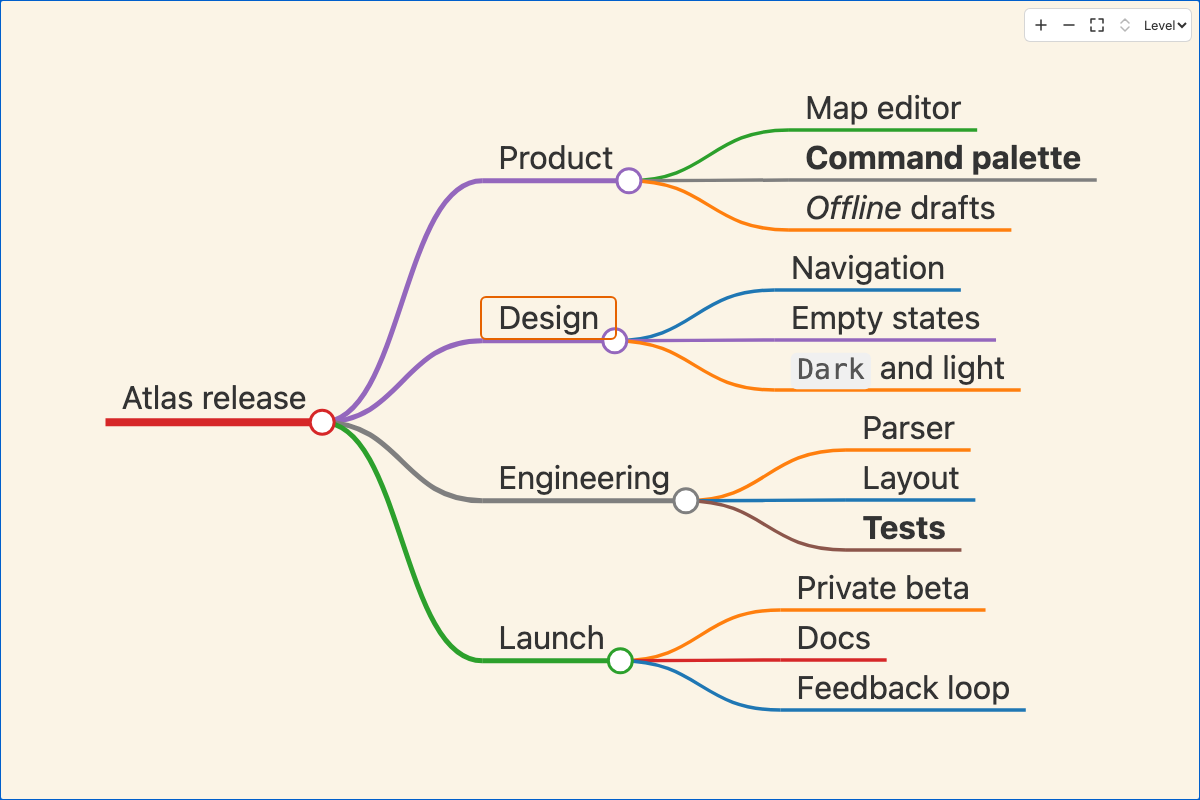
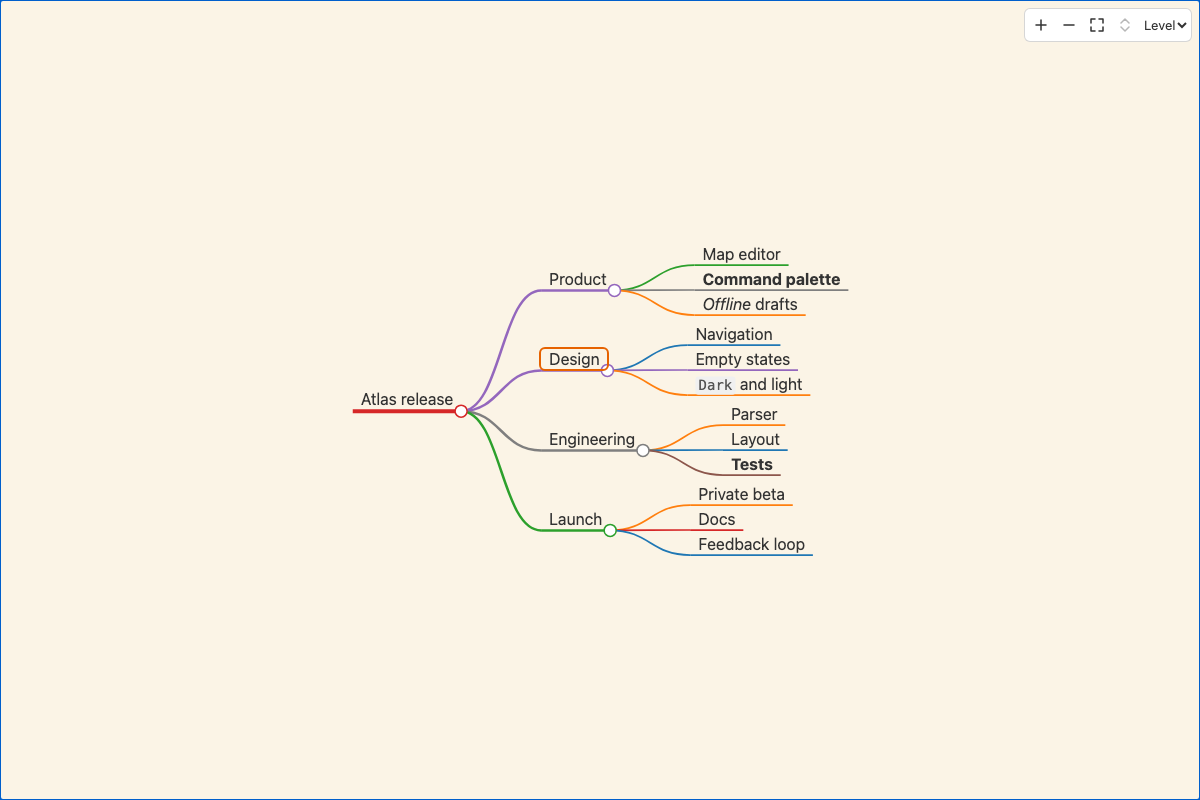
fix: open a map at its actual size
Markmap fits a new view up to 200%, so a small map opened with every label around 32 px while XMind opens at 100%. Cap the initial fit at 100%; a larger map still fits the viewport, and markmap.fitMaxScale in frontmatter can raise the cap.

diff --git a/editor/main.js b/editor/main.js
@@ -373,4 +373,4 @@ https://github.com/highlightjs/highlight.js/issues/2277`),i=e,r=t),n===void 0&&(
 .markmap-popover .hljs-title, .markmap-popover .hljs-section { color: var(--mm-syntax-title, #8250df); }
 .markmap-popover .hljs-attr, .markmap-popover .hljs-attribute, .markmap-popover .hljs-property,
 .markmap-popover .hljs-name, .markmap-popover .hljs-selector-class { color: var(--mm-syntax-attr, #116329); }
-`;function LN(e){if(e.getElementById(FN))return;let t=e.createElement(`style`);t.id=FN,t.textContent=IN,e.head.append(t)}var RN=6,zN=8,BN=class{el;constructor(e,t,n){LN(e),this.el=e.createElement(`div`),this.el.className=`markmap-popover`,this.el.setAttribute(`role`,`dialog`),this.el.tabIndex=-1;for(let[e,t]of Object.entries(n))this.el.style.setProperty(`--${e}`,t);this.el.innerHTML=t,e.body.append(this.el)}position(e){let t=this.el.ownerDocument.defaultView,n=t?.innerWidth??0,r=t?.innerHeight??0,{width:i,height:a}=this.el.getBoundingClientRect(),o=e.y+e.height+RN,s=e.y-RN-a,c=o+a<=r-zN||s<zN?o:s,l=Math.min(Math.max(zN,e.x),Math.max(zN,n-i-zN));this.el.style.top=`${Math.round(c)}px`,this.el.style.left=`${Math.round(l)}px`}contains(e){return!!e&&this.el.contains(e)}destroy(){this.el.remove()}},VN=`http://www.w3.org/2000/svg`,HN=class{element;nativeLinks=!0;themeSelector;root;style;items=new Map;constructor(e,{themeSelector:t}={}){this.element=e,this.themeSelector=t;let n=e.ownerDocument;this.style=n.createElementNS(VN,`style`),this.root=n.createElementNS(VN,`g`),e.append(this.style,this.root)}setCSS(e){this.style.textContent=e}setTransform({k:e,x:t,y:n}){this.root.setAttribute(`transform`,`translate(${t},${n}) scale(${e})`)}get(e){return this.items.get(e)?.el}draw(e){let t=new Set,n=null;e.forEach((e,r)=>{if(e.backends&&!e.backends.includes(`svg`))return;let i=e.kind===`group`,a=i&&e.key?e.key:`#${r}`;t.add(a);let o=this.items.get(a);o||(o={el:this.root.ownerDocument.createElementNS(VN,`g`),markup:``},this.items.set(a,o));let{el:s}=o;UN(s,`transform`,i&&e.transform?`matrix(${e.transform.join(` `)})`:null),UN(s,`opacity`,i&&e.opacity!=null?String(e.opacity):null),UN(s,`data-node-id`,i?e.nodeId??null:null),UN(s,`data-key`,a);let c=yb(i?e.clip?[{...e,transform:void 0,opacity:void 0}]:e.children:[e],{interactive:!0});c!==o.markup&&(GN(s,o.markup,c)||(s.innerHTML=c),o.markup=c);let l=n?n.nextSibling:this.root.firstChild;l!==s&&this.root.insertBefore(s,l),n=s});for(let[e,n]of this.items)t.has(e)||(n.el.remove(),this.items.delete(e))}destroy(){this.style.remove(),this.root.remove(),this.items.clear()}};function UN(e,t,n){n==null?e.removeAttribute(t):e.getAttribute(t)!==n&&e.setAttribute(t,n)}var WN=/^<path d="([^"]*)"([^>]*)\/>$/;function GN(e,t,n){let r=WN.exec(t),i=WN.exec(n),a=e.firstElementChild;return!r||!i||r[2]!==i[2]||i[1].includes(`&`)||!a||a!==e.lastElementChild?!1:(a.setAttribute(`d`,i[1]),!0)}var KN={now:()=>performance.now(),request:e=>requestAnimationFrame(e),cancel:e=>cancelAnimationFrame(e)},qN=class{scheduler;handle;constructor(e=KN){this.scheduler=e}get running(){return this.handle!=null}start(e,t){if(this.stop(),e<=0){t(1);return}let n=this.scheduler.now(),r=()=>{let i=Math.min(1,(this.scheduler.now()-n)/e);this.handle=i<1?this.scheduler.request(r):void 0,t(i)};this.handle=this.scheduler.request(r)}stop(){this.handle!=null&&(this.scheduler.cancel(this.handle),this.handle=void 0)}},JN={zoom:!0,pan:!0,fitPadding:20,fitMaxScale:2,minScale:.1,maxScale:8,duration:500};function YN(e,t,n){let{options:r,json:i,warnings:a}=Hy(e,t,n);for(let e of[`zoom`,`pan`,`fitPadding`,`fitMaxScale`,`minScale`,`maxScale`,`foldLevel`,`duration`,`colorScheme`])i[e]!=null&&(r[e]=i[e]);return{options:r,warnings:a}}var XN=1.25;function ZN(e,t,n=0){t(e,n);for(let r of e.children)ZN(r,t,n+1)}var QN=10,$N=()=>`markmap-${Math.random().toString(36).slice(2,10)}`;function eP(e,t){if(e.id===t)return[e];for(let n of e.children){let r=eP(n,t);if(r)return[e,...r]}}var tP=e=>typeof e.draw==`function`,nP=class e{backend;scopeClass=$N();viewOptions=JN;zoomBehavior=Gw();gestures;selection;measurer;root;folded=new Set;known=new Set;current;pendingFit;popover;popoverRequest=0;frame;primitives=[];hits;stateTween=new qN;zoomTween=new qN;placed=!1;fitScale;zoomTarget;pin;constructor(e,t={}){this.backend=tP(e)?e:new HN(e);let{element:n}=this.backend;n.classList.add(`markmap`,this.scopeClass),this.measurer=t.measurer??py(),this.applyOptions(t),this.selection=j_(n),this.zoomBehavior.on(`zoom`,e=>{e.sourceEvent&&(this.zoomTween.stop(),this.pin=void 0),this.backend.setTransform(e.transform),this.positionPopover(),this.emit(`zoom`,e.transform)}),this.applyGestures()}applyGestures(){let e=this.options.gestures??jN;this.gestures?.use!==e&&(this.gestures?.stop?.(),this.gestures={use:e,stop:e?e(this):void 0})}updateScaleLimits(){let{minScale:e=0,maxScale:t=1/0}=this.viewOptions,n=this.fitScale??e;this.zoomBehavior.scaleExtent([Math.min(e,n),Math.max(t,n)])}get scaleLimits(){let[e,t]=this.zoomBehavior.scaleExtent();return[e,t]}get themeClass(){return this.scopeClass}get tree(){return this.root}get element(){return this.backend.element}get options(){return this.viewOptions}setOptions(e){this.applyOptions(e),this.render()}applyOptions(e){this.viewOptions={...JN,...e},e.measurer&&(this.measurer=e.measurer);let t=this.backend.themeSelector??`.${this.scopeClass}`;this.backend.setCSS(wb(this.theme,this.viewOptions.colorScheme,t)),this.updateScaleLimits(),this.gestures&&this.applyGestures()}static create(t,n,r){let i=new e(t,r);return n&&(i.setTree(n),i.fit()),i}get theme(){return this.options.theme??Ny}get foldedIds(){return this.folded}get result(){return this.current}setTree(e,t){t&&this.applyOptions(t),this.root=e;let n=new Set,r=this.options.foldLevel,i=(e,t,a)=>{n.add(e.id);let o=a||!!e.data.foldAll;!this.known.has(e.id)&&e.children.length&&(o||e.data.fold||r!=null&&t>=r)&&this.folded.add(e.id);for(let n of e.children)i(n,t+1,o)},a=new Set(this.folded);i(e,0,!1);for(let e of this.folded)n.has(e)||this.folded.delete(e);this.known=n,this.render(),iP(a,this.folded)||this.emit(`fold`,this.folded)}render({animate:e=!0}={}){if(!this.root)return;this.current=rb(this.root,{...this.viewOptions,measurer:this.measurer,folded:this.folded});let t=this.current.state,n=this.frame,r=e?this.duration:0;if(n&&r>0){let e=this.theme,i=this.options.layout;this.stateTween.start(r,r=>{this.drawFrame(r<1?Ab(n,t,Tb(r),e,i):t),r>=1&&(this.pin=void 0)})}else this.stateTween.stop(),this.drawFrame(t),this.pin=void 0;this.popover&&(this.current.layout.byId.get(this.popover.id)?.node.notes.length?this.positionPopover():this.closeNotes()),this.emit(`render`,this.current);let{pending:i}=this.current;if(i){let e=this.current;i.then(()=>{this.current===e&&this.render()})}return this.current}drawFrame(e){this.frame=e,this.primitives=ib(e,this.theme),this.backend.draw(this.primitives),this.applyPin(),this.positionPopover()}applyPin(){let e=this.pin&&this.frameNode(this.pin.id)?.rect;if(!this.pin||!e)return;let{k:t,x:n,y:r}=this.transform,i=this.pin.x-(n+e.x*t),a=this.pin.y-(r+e.y*t);Math.abs(i)<1e-6&&Math.abs(a)<1e-6||this.zoomBehavior.transform(this.selection,Fw.translate(n+i,r+a).scale(t))}get duration(){return this.element.ownerDocument.defaultView?.matchMedia?.(`(prefers-reduced-motion: reduce)`).matches?0:this.options.duration??0}frameNode(e){return this.frame?.nodes.find(t=>t.node.id===e)}setFolded(e,t){t!==this.folded.has(e)&&this.updateFolded(e,()=>{t?this.folded.add(e):this.folded.delete(e)})}setFoldedIds(e,{animate:t=!0}={}){if(!this.root)return;let n=new Set(e);this.updateFolded(this.root.id,()=>{this.folded.clear(),ZN(this.root,e=>{n.has(e.id)&&e.children.length&&this.folded.add(e.id)})},t)}focusNode(e,t={}){let n=this.root&&eP(this.root,e);if(!n)return!1;let{animate:r=!0}=t,i=n.slice(0,-1).filter(e=>this.folded.has(e.id));if(i.length){for(let e of i)this.folded.delete(e.id);this.render({animate:r}),this.emit(`fold`,this.folded)}let a=this.current?.layout.byId.get(e)?.rect,{width:o,height:s}=this.element.getBoundingClientRect();if(a&&o&&s){let[e,n]=this.zoomBehavior.scaleExtent(),i=Math.min(n,Math.max(e,t.scale??this.transform.k)),c=o/2-(a.x+a.width/2)*i,l=s/2-(a.y+a.height/2)*i;this.zoomTo(Fw.translate(c,l).scale(i),r)}return!0}expandAll(e){let t=this.subtree(e);t&&this.updateFolded(t.id,()=>{ZN(t,e=>this.folded.delete(e.id))})}foldAll(e){let t=this.subtree(e);t&&this.updateFolded(t.id,()=>{ZN(t,e=>{e.children.length&&this.folded.add(e.id)})})}foldToLevel(e){this.root&&this.updateFolded(this.root.id,()=>{ZN(this.root,(t,n)=>{n>=e&&t.children.length?this.folded.add(t.id):this.folded.delete(t.id)})})}subtree(e){if(this.root)return e==null?this.root:G_(this.root,e)}updateFolded(e,t,n=!0){let r=new Set(this.folded);if(t(),iP(r,this.folded))return;let i=this.frameNode(e)??(this.root&&this.frameNode(this.root.id));if(i){let[e,t]=this.transform.apply([i.rect.x,i.rect.y]);this.zoomTween.stop(),this.pin={id:i.node.id,x:e,y:t}}this.render({animate:n}),this.emit(`fold`,this.folded)}listeners=new Map;on(e,t){let n=this.listeners.get(e);return n||this.listeners.set(e,n=new Set),n.add(t),()=>n.delete(t)}emit(e,t){for(let n of this.listeners.get(e)??[])n(t)}zoomBy(e){let{width:t,height:n}=this.element.getBoundingClientRect(),r=this.zoomTween.running&&this.zoomTarget||this.transform,[i,a]=this.zoomBehavior.scaleExtent(),o=Math.min(a,Math.max(i,r.k*e)),s=t/2,c=n/2,l=(s-r.x)/r.k,u=(c-r.y)/r.k;this.zoomTo(Fw.translate(s-l*o,c-u*o).scale(o))}zoomIn(){this.zoomBy(XN)}zoomOut(){this.zoomBy(1/XN)}zoomTo(e,t=!0){this.pin=void 0,this.zoomTarget=e;let n=this.transform,{width:r,height:i}=this.element.getBoundingClientRect(),a=e=>this.zoomBehavior.transform(this.selection,e),o=t?this.duration:0;this.zoomTween.start(o,t=>a(t<1?rP(n,e,Tb(t),r/2,i/2):e))}toggle(e){this.setFolded(e,!this.folded.has(e))}fit(){if(!this.current)return;let{width:e,height:t}=this.element.getBoundingClientRect();if(!e||!t){this.fitWhenSized();return}this.pendingFit?.disconnect(),this.pendingFit=void 0;let n=this.current.bounds,r=this.options.fitPadding??0,i=Math.min((e-r*2)/n.width,(t-r*2)/n.height,this.options.fitMaxScale??2);this.fitScale=i,this.updateScaleLimits();let a=Fw.translate(e/2,t/2).scale(i).translate(-(n.x+n.width/2),-(n.y+n.height/2));this.zoomTo(a,this.placed),this.placed=!0}fitWhenSized(){this.pendingFit||typeof ResizeObserver>`u`||(this.pendingFit=new ResizeObserver(()=>{let{width:e,height:t}=this.element.getBoundingClientRect();e&&t&&this.fit()}),this.pendingFit.observe(this.element))}get transform(){return Iw(this.element)}hitAt(e,t){let{frame:n,result:r}=this;if(n&&r){if(this.hits?.frame!==n){let e=n.nodes.filter(e=>e.ctx.hasChildren).map(e=>({nodeId:e.node.id,...this.theme.node.anchor(e.rect,e.ctx.direction,e.ctx)})),t=new NN(this.primitives,{toggles:e,toggleRadius:QN,nodes:n.nodes.map(e=>({nodeId:e.node.id,rect:e.rect})),include:e=>r.layout.byId.has(e)});this.hits={frame:n,index:t}}return this.hits.index.hit(e,t)}}layoutPoint(e,t){let n=this.element.getBoundingClientRect();return this.transform.invert([e-n.x,t-n.y])}get openNoteId(){return this.popover?.id}async openNotes(e){let t=this.current?.layout.byId.get(e);if(!t?.node.notes.length)return;this.closeNotes();let n=this.popoverRequest,{notesToHtml:r}=await Promise.resolve().then(()=>(DN(),xN)),i=await r(t.node.notes,{plugins:this.options.plugins??ty,highlight:this.options.highlight});if(n!==this.popoverRequest)return;let a=new BN(this.element.ownerDocument,i,this.currentTokens());a.el.setAttribute(`aria-label`,`Notes`),this.popover={id:e,popover:a},this.positionPopover();let o=this.element.ownerDocument;o.addEventListener(`click`,this.handleOutside,!0),o.addEventListener(`keydown`,this.handleKey),o.defaultView?.addEventListener(`scroll`,this.handleScroll,!0),a.el.focus({preventScroll:!0})}closeNotes(){if(this.popoverRequest+=1,!this.popover)return;this.popover.popover.destroy(),this.popover=void 0;let e=this.element.ownerDocument;e.removeEventListener(`click`,this.handleOutside,!0),e.removeEventListener(`keydown`,this.handleKey),e.defaultView?.removeEventListener(`scroll`,this.handleScroll,!0)}currentTokens(){let{tokens:e,darkTokens:t={}}=this.theme,n=this.element.ownerDocument.defaultView?.getComputedStyle(this.element),r={};for(let i of new Set([...Object.keys(e),...Object.keys(t)]))r[i]=n?.getPropertyValue(`--${i}`).trim()||e[i]||``;return r}screenRect(e){let t=this.frameNode(e)?.rect;if(!t)return;let n=this.element.getBoundingClientRect(),r=this.transform;return{x:n.x+r.applyX(t.x),y:n.y+r.applyY(t.y),width:t.width*r.k,height:t.height*r.k}}positionPopover(){if(!this.popover)return;let e=this.screenRect(this.popover.id);e&&this.popover.popover.position(e)}handleOutside=e=>{let t=e.composedPath()[0];if(!this.popover?.popover.contains(t)){if(t&&this.element.contains(t)&&e instanceof MouseEvent){let t=this.hitAt(...this.layoutPoint(e.clientX,e.clientY));if(t?.kind===`action`&&t.action===`notes`)return}this.closeNotes()}};handleKey=e=>{e.key===`Escape`&&this.closeNotes()};handleScroll=e=>{this.popover?.popover.contains(e.target)||this.closeNotes()};destroy(){this.root=void 0,this.listeners.clear(),this.stateTween.stop(),this.zoomTween.stop(),this.closeNotes(),this.gestures?.stop?.(),this.gestures=void 0,this.pendingFit?.disconnect(),this.backend.destroy(),this.element.classList.remove(`markmap`,this.scopeClass)}};function rP(e,t,n,r,i){let a=e.k*(t.k/e.k)**n,o=(r-e.x)/e.k*(1-n)+(r-t.x)/t.k*n,s=(i-e.y)/e.k*(1-n)+(i-t.y)/t.k*n;return Fw.translate(r-o*a,i-s*a).scale(a)}function iP(e,t){return e.size===t.size&&[...e].every(e=>t.has(e))}var aP=40,oP=800,sP=.01,cP=20,lP=e=>e===1?aP:e===2?oP:1,uP=e=>{let t=e.deltaX===0&&e.shiftKey,n=t?e.deltaY:e.deltaX,r=t?0:e.deltaY,i=lP(e.deltaMode);return{x:n*i,y:r*i}},dP=e=>{let t=-e.deltaY*lP(e.deltaMode);return Math.max(-20,Math.min(cP,t))*sP},fP=e=>{let t=ON(kN,AN)(e),n=e.element,r={x:0,y:0},i=null,a=()=>{i=null;let t=r.x,a=r.y;if(r.x=0,r.y=0,t===0&&a===0)return;let o=e.transform.k,s=e.transform.translate(-t/o,-a/o);e.zoomBehavior.transform(j_(n),s)},o=t=>{if(!(t instanceof WheelEvent)||t.metaKey||t.ctrlKey||e.options.pan===!1)return;t.preventDefault(),t.stopImmediatePropagation();let n=uP(t);r.x+=n.x,r.y+=n.y,i??=requestAnimationFrame(a)};return n.addEventListener(`wheel`,o,{capture:!0,passive:!1}),()=>{i!==null&&cancelAnimationFrame(i),i=null,r.x=0,r.y=0,n.removeEventListener(`wheel`,o,!0),t()}},pP=e=>e instanceof Error?e.message:String(e),mP=(e,t)=>({...YN({duration:0,fitPadding:24},t.markmap).options,colorScheme:e,gestures:fP}),hP=e=>{let t=null,n=null,r=null;try{let i=e.markdown,a=ym(i);t=nP.create(e.svg,a.tree,mP(e.colorScheme,a.frontmatter));let o=t;return o.zoomBehavior.wheelDelta(dP),r=jh(o),e.editable&&(n=new xh({source:i,view:Sh(o),container:e.surface,placeholder:``,onChange:t=>e.onSource({source:t.source,selection:t.selection}),onError:t=>e.onError(t.message)}),n.focus()),{ok:!0,view:{toolbar:r.element,setColorScheme:e=>{o.setOptions({...o.options,colorScheme:e})},commit:()=>{n?.commit()},destroy:()=>{n?.destroy(),n=null,r?.destroy(),r=null,o.destroy(),t=null,e.svg.replaceChildren()}}}}catch(i){return n?.destroy(),r?.destroy(),t?.destroy(),e.svg.replaceChildren(),{ok:!1,message:pP(i)}}},gP=document.querySelector(`#root`);if(gP===null)throw Error(`Markmap: missing #root`);Dt(Ue(),gP,{createMarkmap:hP})})();
+`;function LN(e){if(e.getElementById(FN))return;let t=e.createElement(`style`);t.id=FN,t.textContent=IN,e.head.append(t)}var RN=6,zN=8,BN=class{el;constructor(e,t,n){LN(e),this.el=e.createElement(`div`),this.el.className=`markmap-popover`,this.el.setAttribute(`role`,`dialog`),this.el.tabIndex=-1;for(let[e,t]of Object.entries(n))this.el.style.setProperty(`--${e}`,t);this.el.innerHTML=t,e.body.append(this.el)}position(e){let t=this.el.ownerDocument.defaultView,n=t?.innerWidth??0,r=t?.innerHeight??0,{width:i,height:a}=this.el.getBoundingClientRect(),o=e.y+e.height+RN,s=e.y-RN-a,c=o+a<=r-zN||s<zN?o:s,l=Math.min(Math.max(zN,e.x),Math.max(zN,n-i-zN));this.el.style.top=`${Math.round(c)}px`,this.el.style.left=`${Math.round(l)}px`}contains(e){return!!e&&this.el.contains(e)}destroy(){this.el.remove()}},VN=`http://www.w3.org/2000/svg`,HN=class{element;nativeLinks=!0;themeSelector;root;style;items=new Map;constructor(e,{themeSelector:t}={}){this.element=e,this.themeSelector=t;let n=e.ownerDocument;this.style=n.createElementNS(VN,`style`),this.root=n.createElementNS(VN,`g`),e.append(this.style,this.root)}setCSS(e){this.style.textContent=e}setTransform({k:e,x:t,y:n}){this.root.setAttribute(`transform`,`translate(${t},${n}) scale(${e})`)}get(e){return this.items.get(e)?.el}draw(e){let t=new Set,n=null;e.forEach((e,r)=>{if(e.backends&&!e.backends.includes(`svg`))return;let i=e.kind===`group`,a=i&&e.key?e.key:`#${r}`;t.add(a);let o=this.items.get(a);o||(o={el:this.root.ownerDocument.createElementNS(VN,`g`),markup:``},this.items.set(a,o));let{el:s}=o;UN(s,`transform`,i&&e.transform?`matrix(${e.transform.join(` `)})`:null),UN(s,`opacity`,i&&e.opacity!=null?String(e.opacity):null),UN(s,`data-node-id`,i?e.nodeId??null:null),UN(s,`data-key`,a);let c=yb(i?e.clip?[{...e,transform:void 0,opacity:void 0}]:e.children:[e],{interactive:!0});c!==o.markup&&(GN(s,o.markup,c)||(s.innerHTML=c),o.markup=c);let l=n?n.nextSibling:this.root.firstChild;l!==s&&this.root.insertBefore(s,l),n=s});for(let[e,n]of this.items)t.has(e)||(n.el.remove(),this.items.delete(e))}destroy(){this.style.remove(),this.root.remove(),this.items.clear()}};function UN(e,t,n){n==null?e.removeAttribute(t):e.getAttribute(t)!==n&&e.setAttribute(t,n)}var WN=/^<path d="([^"]*)"([^>]*)\/>$/;function GN(e,t,n){let r=WN.exec(t),i=WN.exec(n),a=e.firstElementChild;return!r||!i||r[2]!==i[2]||i[1].includes(`&`)||!a||a!==e.lastElementChild?!1:(a.setAttribute(`d`,i[1]),!0)}var KN={now:()=>performance.now(),request:e=>requestAnimationFrame(e),cancel:e=>cancelAnimationFrame(e)},qN=class{scheduler;handle;constructor(e=KN){this.scheduler=e}get running(){return this.handle!=null}start(e,t){if(this.stop(),e<=0){t(1);return}let n=this.scheduler.now(),r=()=>{let i=Math.min(1,(this.scheduler.now()-n)/e);this.handle=i<1?this.scheduler.request(r):void 0,t(i)};this.handle=this.scheduler.request(r)}stop(){this.handle!=null&&(this.scheduler.cancel(this.handle),this.handle=void 0)}},JN={zoom:!0,pan:!0,fitPadding:20,fitMaxScale:2,minScale:.1,maxScale:8,duration:500};function YN(e,t,n){let{options:r,json:i,warnings:a}=Hy(e,t,n);for(let e of[`zoom`,`pan`,`fitPadding`,`fitMaxScale`,`minScale`,`maxScale`,`foldLevel`,`duration`,`colorScheme`])i[e]!=null&&(r[e]=i[e]);return{options:r,warnings:a}}var XN=1.25;function ZN(e,t,n=0){t(e,n);for(let r of e.children)ZN(r,t,n+1)}var QN=10,$N=()=>`markmap-${Math.random().toString(36).slice(2,10)}`;function eP(e,t){if(e.id===t)return[e];for(let n of e.children){let r=eP(n,t);if(r)return[e,...r]}}var tP=e=>typeof e.draw==`function`,nP=class e{backend;scopeClass=$N();viewOptions=JN;zoomBehavior=Gw();gestures;selection;measurer;root;folded=new Set;known=new Set;current;pendingFit;popover;popoverRequest=0;frame;primitives=[];hits;stateTween=new qN;zoomTween=new qN;placed=!1;fitScale;zoomTarget;pin;constructor(e,t={}){this.backend=tP(e)?e:new HN(e);let{element:n}=this.backend;n.classList.add(`markmap`,this.scopeClass),this.measurer=t.measurer??py(),this.applyOptions(t),this.selection=j_(n),this.zoomBehavior.on(`zoom`,e=>{e.sourceEvent&&(this.zoomTween.stop(),this.pin=void 0),this.backend.setTransform(e.transform),this.positionPopover(),this.emit(`zoom`,e.transform)}),this.applyGestures()}applyGestures(){let e=this.options.gestures??jN;this.gestures?.use!==e&&(this.gestures?.stop?.(),this.gestures={use:e,stop:e?e(this):void 0})}updateScaleLimits(){let{minScale:e=0,maxScale:t=1/0}=this.viewOptions,n=this.fitScale??e;this.zoomBehavior.scaleExtent([Math.min(e,n),Math.max(t,n)])}get scaleLimits(){let[e,t]=this.zoomBehavior.scaleExtent();return[e,t]}get themeClass(){return this.scopeClass}get tree(){return this.root}get element(){return this.backend.element}get options(){return this.viewOptions}setOptions(e){this.applyOptions(e),this.render()}applyOptions(e){this.viewOptions={...JN,...e},e.measurer&&(this.measurer=e.measurer);let t=this.backend.themeSelector??`.${this.scopeClass}`;this.backend.setCSS(wb(this.theme,this.viewOptions.colorScheme,t)),this.updateScaleLimits(),this.gestures&&this.applyGestures()}static create(t,n,r){let i=new e(t,r);return n&&(i.setTree(n),i.fit()),i}get theme(){return this.options.theme??Ny}get foldedIds(){return this.folded}get result(){return this.current}setTree(e,t){t&&this.applyOptions(t),this.root=e;let n=new Set,r=this.options.foldLevel,i=(e,t,a)=>{n.add(e.id);let o=a||!!e.data.foldAll;!this.known.has(e.id)&&e.children.length&&(o||e.data.fold||r!=null&&t>=r)&&this.folded.add(e.id);for(let n of e.children)i(n,t+1,o)},a=new Set(this.folded);i(e,0,!1);for(let e of this.folded)n.has(e)||this.folded.delete(e);this.known=n,this.render(),iP(a,this.folded)||this.emit(`fold`,this.folded)}render({animate:e=!0}={}){if(!this.root)return;this.current=rb(this.root,{...this.viewOptions,measurer:this.measurer,folded:this.folded});let t=this.current.state,n=this.frame,r=e?this.duration:0;if(n&&r>0){let e=this.theme,i=this.options.layout;this.stateTween.start(r,r=>{this.drawFrame(r<1?Ab(n,t,Tb(r),e,i):t),r>=1&&(this.pin=void 0)})}else this.stateTween.stop(),this.drawFrame(t),this.pin=void 0;this.popover&&(this.current.layout.byId.get(this.popover.id)?.node.notes.length?this.positionPopover():this.closeNotes()),this.emit(`render`,this.current);let{pending:i}=this.current;if(i){let e=this.current;i.then(()=>{this.current===e&&this.render()})}return this.current}drawFrame(e){this.frame=e,this.primitives=ib(e,this.theme),this.backend.draw(this.primitives),this.applyPin(),this.positionPopover()}applyPin(){let e=this.pin&&this.frameNode(this.pin.id)?.rect;if(!this.pin||!e)return;let{k:t,x:n,y:r}=this.transform,i=this.pin.x-(n+e.x*t),a=this.pin.y-(r+e.y*t);Math.abs(i)<1e-6&&Math.abs(a)<1e-6||this.zoomBehavior.transform(this.selection,Fw.translate(n+i,r+a).scale(t))}get duration(){return this.element.ownerDocument.defaultView?.matchMedia?.(`(prefers-reduced-motion: reduce)`).matches?0:this.options.duration??0}frameNode(e){return this.frame?.nodes.find(t=>t.node.id===e)}setFolded(e,t){t!==this.folded.has(e)&&this.updateFolded(e,()=>{t?this.folded.add(e):this.folded.delete(e)})}setFoldedIds(e,{animate:t=!0}={}){if(!this.root)return;let n=new Set(e);this.updateFolded(this.root.id,()=>{this.folded.clear(),ZN(this.root,e=>{n.has(e.id)&&e.children.length&&this.folded.add(e.id)})},t)}focusNode(e,t={}){let n=this.root&&eP(this.root,e);if(!n)return!1;let{animate:r=!0}=t,i=n.slice(0,-1).filter(e=>this.folded.has(e.id));if(i.length){for(let e of i)this.folded.delete(e.id);this.render({animate:r}),this.emit(`fold`,this.folded)}let a=this.current?.layout.byId.get(e)?.rect,{width:o,height:s}=this.element.getBoundingClientRect();if(a&&o&&s){let[e,n]=this.zoomBehavior.scaleExtent(),i=Math.min(n,Math.max(e,t.scale??this.transform.k)),c=o/2-(a.x+a.width/2)*i,l=s/2-(a.y+a.height/2)*i;this.zoomTo(Fw.translate(c,l).scale(i),r)}return!0}expandAll(e){let t=this.subtree(e);t&&this.updateFolded(t.id,()=>{ZN(t,e=>this.folded.delete(e.id))})}foldAll(e){let t=this.subtree(e);t&&this.updateFolded(t.id,()=>{ZN(t,e=>{e.children.length&&this.folded.add(e.id)})})}foldToLevel(e){this.root&&this.updateFolded(this.root.id,()=>{ZN(this.root,(t,n)=>{n>=e&&t.children.length?this.folded.add(t.id):this.folded.delete(t.id)})})}subtree(e){if(this.root)return e==null?this.root:G_(this.root,e)}updateFolded(e,t,n=!0){let r=new Set(this.folded);if(t(),iP(r,this.folded))return;let i=this.frameNode(e)??(this.root&&this.frameNode(this.root.id));if(i){let[e,t]=this.transform.apply([i.rect.x,i.rect.y]);this.zoomTween.stop(),this.pin={id:i.node.id,x:e,y:t}}this.render({animate:n}),this.emit(`fold`,this.folded)}listeners=new Map;on(e,t){let n=this.listeners.get(e);return n||this.listeners.set(e,n=new Set),n.add(t),()=>n.delete(t)}emit(e,t){for(let n of this.listeners.get(e)??[])n(t)}zoomBy(e){let{width:t,height:n}=this.element.getBoundingClientRect(),r=this.zoomTween.running&&this.zoomTarget||this.transform,[i,a]=this.zoomBehavior.scaleExtent(),o=Math.min(a,Math.max(i,r.k*e)),s=t/2,c=n/2,l=(s-r.x)/r.k,u=(c-r.y)/r.k;this.zoomTo(Fw.translate(s-l*o,c-u*o).scale(o))}zoomIn(){this.zoomBy(XN)}zoomOut(){this.zoomBy(1/XN)}zoomTo(e,t=!0){this.pin=void 0,this.zoomTarget=e;let n=this.transform,{width:r,height:i}=this.element.getBoundingClientRect(),a=e=>this.zoomBehavior.transform(this.selection,e),o=t?this.duration:0;this.zoomTween.start(o,t=>a(t<1?rP(n,e,Tb(t),r/2,i/2):e))}toggle(e){this.setFolded(e,!this.folded.has(e))}fit(){if(!this.current)return;let{width:e,height:t}=this.element.getBoundingClientRect();if(!e||!t){this.fitWhenSized();return}this.pendingFit?.disconnect(),this.pendingFit=void 0;let n=this.current.bounds,r=this.options.fitPadding??0,i=Math.min((e-r*2)/n.width,(t-r*2)/n.height,this.options.fitMaxScale??2);this.fitScale=i,this.updateScaleLimits();let a=Fw.translate(e/2,t/2).scale(i).translate(-(n.x+n.width/2),-(n.y+n.height/2));this.zoomTo(a,this.placed),this.placed=!0}fitWhenSized(){this.pendingFit||typeof ResizeObserver>`u`||(this.pendingFit=new ResizeObserver(()=>{let{width:e,height:t}=this.element.getBoundingClientRect();e&&t&&this.fit()}),this.pendingFit.observe(this.element))}get transform(){return Iw(this.element)}hitAt(e,t){let{frame:n,result:r}=this;if(n&&r){if(this.hits?.frame!==n){let e=n.nodes.filter(e=>e.ctx.hasChildren).map(e=>({nodeId:e.node.id,...this.theme.node.anchor(e.rect,e.ctx.direction,e.ctx)})),t=new NN(this.primitives,{toggles:e,toggleRadius:QN,nodes:n.nodes.map(e=>({nodeId:e.node.id,rect:e.rect})),include:e=>r.layout.byId.has(e)});this.hits={frame:n,index:t}}return this.hits.index.hit(e,t)}}layoutPoint(e,t){let n=this.element.getBoundingClientRect();return this.transform.invert([e-n.x,t-n.y])}get openNoteId(){return this.popover?.id}async openNotes(e){let t=this.current?.layout.byId.get(e);if(!t?.node.notes.length)return;this.closeNotes();let n=this.popoverRequest,{notesToHtml:r}=await Promise.resolve().then(()=>(DN(),xN)),i=await r(t.node.notes,{plugins:this.options.plugins??ty,highlight:this.options.highlight});if(n!==this.popoverRequest)return;let a=new BN(this.element.ownerDocument,i,this.currentTokens());a.el.setAttribute(`aria-label`,`Notes`),this.popover={id:e,popover:a},this.positionPopover();let o=this.element.ownerDocument;o.addEventListener(`click`,this.handleOutside,!0),o.addEventListener(`keydown`,this.handleKey),o.defaultView?.addEventListener(`scroll`,this.handleScroll,!0),a.el.focus({preventScroll:!0})}closeNotes(){if(this.popoverRequest+=1,!this.popover)return;this.popover.popover.destroy(),this.popover=void 0;let e=this.element.ownerDocument;e.removeEventListener(`click`,this.handleOutside,!0),e.removeEventListener(`keydown`,this.handleKey),e.defaultView?.removeEventListener(`scroll`,this.handleScroll,!0)}currentTokens(){let{tokens:e,darkTokens:t={}}=this.theme,n=this.element.ownerDocument.defaultView?.getComputedStyle(this.element),r={};for(let i of new Set([...Object.keys(e),...Object.keys(t)]))r[i]=n?.getPropertyValue(`--${i}`).trim()||e[i]||``;return r}screenRect(e){let t=this.frameNode(e)?.rect;if(!t)return;let n=this.element.getBoundingClientRect(),r=this.transform;return{x:n.x+r.applyX(t.x),y:n.y+r.applyY(t.y),width:t.width*r.k,height:t.height*r.k}}positionPopover(){if(!this.popover)return;let e=this.screenRect(this.popover.id);e&&this.popover.popover.position(e)}handleOutside=e=>{let t=e.composedPath()[0];if(!this.popover?.popover.contains(t)){if(t&&this.element.contains(t)&&e instanceof MouseEvent){let t=this.hitAt(...this.layoutPoint(e.clientX,e.clientY));if(t?.kind===`action`&&t.action===`notes`)return}this.closeNotes()}};handleKey=e=>{e.key===`Escape`&&this.closeNotes()};handleScroll=e=>{this.popover?.popover.contains(e.target)||this.closeNotes()};destroy(){this.root=void 0,this.listeners.clear(),this.stateTween.stop(),this.zoomTween.stop(),this.closeNotes(),this.gestures?.stop?.(),this.gestures=void 0,this.pendingFit?.disconnect(),this.backend.destroy(),this.element.classList.remove(`markmap`,this.scopeClass)}};function rP(e,t,n,r,i){let a=e.k*(t.k/e.k)**n,o=(r-e.x)/e.k*(1-n)+(r-t.x)/t.k*n,s=(i-e.y)/e.k*(1-n)+(i-t.y)/t.k*n;return Fw.translate(r-o*a,i-s*a).scale(a)}function iP(e,t){return e.size===t.size&&[...e].every(e=>t.has(e))}var aP=40,oP=800,sP=.01,cP=20,lP=e=>e===1?aP:e===2?oP:1,uP=e=>{let t=e.deltaX===0&&e.shiftKey,n=t?e.deltaY:e.deltaX,r=t?0:e.deltaY,i=lP(e.deltaMode);return{x:n*i,y:r*i}},dP=e=>{let t=-e.deltaY*lP(e.deltaMode);return Math.max(-20,Math.min(cP,t))*sP},fP=e=>{let t=ON(kN,AN)(e),n=e.element,r={x:0,y:0},i=null,a=()=>{i=null;let t=r.x,a=r.y;if(r.x=0,r.y=0,t===0&&a===0)return;let o=e.transform.k,s=e.transform.translate(-t/o,-a/o);e.zoomBehavior.transform(j_(n),s)},o=t=>{if(!(t instanceof WheelEvent)||t.metaKey||t.ctrlKey||e.options.pan===!1)return;t.preventDefault(),t.stopImmediatePropagation();let n=uP(t);r.x+=n.x,r.y+=n.y,i??=requestAnimationFrame(a)};return n.addEventListener(`wheel`,o,{capture:!0,passive:!1}),()=>{i!==null&&cancelAnimationFrame(i),i=null,r.x=0,r.y=0,n.removeEventListener(`wheel`,o,!0),t()}},pP=e=>e instanceof Error?e.message:String(e),mP=(e,t)=>({...YN({duration:0,fitPadding:24,fitMaxScale:1},t.markmap).options,colorScheme:e,gestures:fP}),hP=e=>{let t=null,n=null,r=null;try{let i=e.markdown,a=ym(i);t=nP.create(e.svg,a.tree,mP(e.colorScheme,a.frontmatter));let o=t;return o.zoomBehavior.wheelDelta(dP),r=jh(o),e.editable&&(n=new xh({source:i,view:Sh(o),container:e.surface,placeholder:``,onChange:t=>e.onSource({source:t.source,selection:t.selection}),onError:t=>e.onError(t.message)}),n.focus()),{ok:!0,view:{toolbar:r.element,setColorScheme:e=>{o.setOptions({...o.options,colorScheme:e})},commit:()=>{n?.commit()},destroy:()=>{n?.destroy(),n=null,r?.destroy(),r=null,o.destroy(),t=null,e.svg.replaceChildren()}}}}catch(i){return n?.destroy(),r?.destroy(),t?.destroy(),e.svg.replaceChildren(),{ok:!1,message:pP(i)}}},gP=document.querySelector(`#root`);if(gP===null)throw Error(`Markmap: missing #root`);Dt(Ue(),gP,{createMarkmap:hP})})();

diff --git a/tests/acceptance/markmap.spec.ts b/tests/acceptance/markmap.spec.ts
@@ -1,5 +1,7 @@
 import { expect, test } from '@playwright/test';
 
+const scaleOf = (transform: string): number => Number(/scale\(([^)]+)\)/u.exec(transform)?.[1]);
+
 test('[R-02] renders a real Markmap and mounts its toolbar', async ({ page }) => {
   await page.goto('/dev/');
 
@@ -7,6 +9,16 @@ test('[R-02] renders a real Markmap and mounts its toolbar', async ({ page }) =>
   await expect(page.locator('.mm-markmap-svg g').first()).toBeVisible();
   await expect(page.locator('.markmap-toolbar')).toBeVisible();
   await expect(page.getByRole('button', { name: 'Fit to view' })).toBeVisible();
+});
+
+test('[R-02] opens a map at no more than 100% scale', async ({ page }) => {
+  await page.setViewportSize({ width: 1200, height: 800 });
+  await page.goto('/dev/?map=showcase');
+  await expect(page.locator('.mm-markmap-svg')).toBeVisible();
+
+  const transform = await page.locator('.mm-markmap-svg > g').first().getAttribute('transform');
+
+  expect(scaleOf(transform ?? '')).toBeLessThanOrEqual(1);
 });
 
 test('[R-03] [R-10] selects a node and exposes accessible names', async ({ page }) => {
@@ -71,7 +83,6 @@ test('[R-14] pans with the wheel and zooms with the modifier', async ({ page }) 
   await page.goto('/dev/');
   const root = page.locator('.mm-markmap-svg > g').first();
   const read = async (): Promise<string> => (await root.getAttribute('transform')) ?? '';
-  const scaleOf = (transform: string): number => Number(/scale\(([^)]+)\)/u.exec(transform)?.[1]);
   const modifier = process.platform === 'darwin' ? 'Meta' : 'Control';
 
   const before = await read();

diff --git a/tests/markmap-view.test.ts b/tests/markmap-view.test.ts
@@ -141,7 +141,7 @@ describe('Markmap adapter', () => {
     expect(mocks.editorOptions[0]?.view).toEqual({});
     expect(mocks.editorFocus).toHaveBeenCalledOnce();
     expect(mocks.resolveViewOptions).toHaveBeenCalledWith(
-      { duration: 0, fitPadding: 24 },
+      { duration: 0, fitPadding: 24, fitMaxScale: 1 },
       undefined,
     );
     expect(resolved.options).toBeDefined();

diff --git a/src/markmap/view.ts b/src/markmap/view.ts
@@ -40,7 +40,8 @@ const optionsFor = (
   colorScheme: MarkmapColorScheme,
   frontmatter: Record<string, unknown>,
 ): ViewOptions => ({
-  ...resolveViewOptions({ duration: 0, fitPadding: 24 }, frontmatter.markmap).options,
+  ...resolveViewOptions({ duration: 0, fitPadding: 24, fitMaxScale: 1 }, frontmatter.markmap)
+    .options,
   colorScheme,
   gestures: mapGestures,
 });

diff --git a/README.md b/README.md
@@ -14,10 +14,10 @@ This is an adaptation of the open-source Markmap library, not an official Markma
 - **Edit on the map.** The map is the editing surface. There is no second Markdown pane and no separate model to keep in sync.
 - **Keyboard first.** Enter adds a sibling, Tab a child, Shift+Tab outdents, Delete removes a subtree, F2 or Space edits a label. Arrow keys move the selection; typing a printable character starts a label.
 - **Real Markmap.** Rendering, layout, folding, notes, the toolbar, and the viewport come from Markmap. The extension owns only the editing layer and the host contract.
-- **Canvas navigation.** Scroll or a trackpad surface pans the map; Cmd/Ctrl + scroll zooms around the pointer. Pan speed stays constant at every zoom level, and a wheel burst is applied once per frame.
+- **Canvas navigation.** The map opens at 100% and is never magnified; a map larger than the window is fitted to it. Scroll or a trackpad surface pans the map; Cmd/Ctrl + scroll zooms around the pointer. Pan speed stays constant at every zoom level, and a wheel burst is applied once per frame.
 - **Markdown fidelity.** An edit changes only the Markdown range it touches. Frontmatter, inline Markdown, untouched branches, and line endings survive. New nodes start with an empty label and stay in the tree through a zero-width marker.
 - **New files.** An empty matching file opens in an editable state. Type the first label and save; it becomes a heading, and existing frontmatter is preserved.
-- **Theme aware.** The map follows the OpenChamber light or dark theme. Markmap options in frontmatter, such as `theme`, `layout`, `foldLevel`, and `colorFreezeLevel`, still apply.
+- **Theme aware.** The map follows the OpenChamber light or dark theme. Markmap options in frontmatter, such as `theme`, `layout`, `foldLevel`, `colorFreezeLevel`, and `fitMaxScale`, still apply.
 - **Safe fallback.** Read-only files render without the editor. Binary input and Markmap failures send the file to OpenChamber's source view, and the original content stays intact.
 - **Local only.** No network requests, telemetry, external assets, or stored file contents. The extension asks for no capabilities.
 

diff --git a/AGENTS.md b/AGENTS.md
@@ -73,7 +73,7 @@ Bugs follow the same path, with the regression test first. See `docs/process/bug
 - `parseDocument(markdown)` from `@markmap/model` returns `{ document, tree, frontmatter }`. The tree carries `source.label` and `source.block` ranges used by the editor.
 - `new MarkmapEditor({ source, view: createEditView(mm), container, onChange, onError })` adds selection, keyboard, overlay editing, and history over a live `Markmap`.
 - Apply `frontmatter.markmap` with `resolveViewOptions(base, input)`. The result includes warnings for unknown keys.
-- `Markmap.create(svg, root, options)` already fits the view. The argument order is target, root, options.
+- `Markmap.create(svg, root, options)` already fits the view. The extension caps `fitMaxScale` at 1, so a small map opens at 100% and a large one is fitted; frontmatter can override the cap. The argument order is target, root, options.
 - `mm.setOptions({ ...mm.options, colorScheme })` redraws without replacing the tree or editor history.
 - The `<svg>` needs a non-zero CSS box and no `viewBox`.
 - The toolbar must live in the same document as the map so it can use the map's `--mm-*` tokens.

diff --git a/docs/requirements.md b/docs/requirements.md
@@ -10,7 +10,7 @@ The package declares one `contributes.fileEditors` entry with display name `Mark
 
 ### R-02 Render
 
-A matching text file opens as an interactive Markmap. The renderer receives the file text unchanged, mounts the Markmap toolbar, and shows the map in the stage. Rendering uses the vendored `@markmap/model` and `@markmap/edit-dom` over `@markmap/view` and `@markmap/toolbar`; this repository contains no custom Markdown parser, layout, or serializer.
+A matching text file opens as an interactive Markmap. The renderer receives the file text unchanged, mounts the Markmap toolbar, and shows the map in the stage. A small map opens at 100% instead of being magnified; a map larger than the viewport is fitted to it, and `markmap.fitMaxScale` in frontmatter can override the cap. Rendering uses the vendored `@markmap/model` and `@markmap/edit-dom` over `@markmap/view` and `@markmap/toolbar`; this repository contains no custom Markdown parser, layout, or serializer.
 
 ### R-03 Node selection
 
